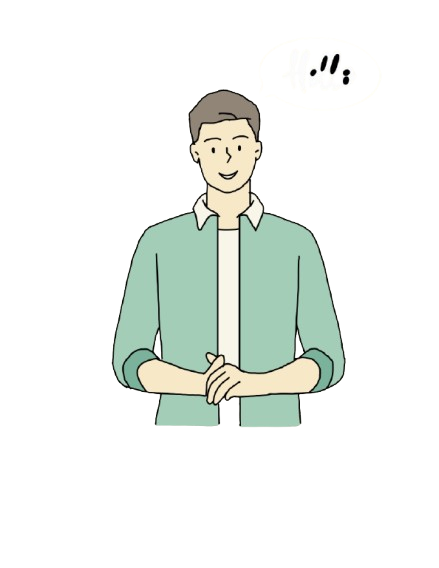
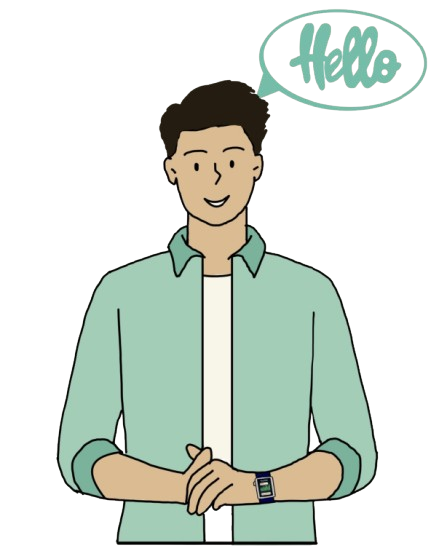
Updated the doodle

diff --git a/src/stylesheets/Tech.css b/src/stylesheets/Tech.css
@@ -2,7 +2,6 @@
 
 #techstack {
   background-color: #10221d;
-  padding-top: 50px;
   padding-bottom: 50px;
 }
 .tech-container {
@@ -100,6 +99,10 @@
 
 /* Responsive styles for very small screens (phones) */
 @media (max-width: 480px) {
+  #techstack {
+    background-color: #10221d;
+    padding-bottom: 0px;
+  }
 
   .tech-heading-overlay {
     font-size: 2rem; /* Reduce heading size for very small screens */

diff --git a/src/stylesheets/About.css b/src/stylesheets/About.css
@@ -6,7 +6,7 @@
   background-color: #10221d;
   height: 100vh;
   padding-top: 50px;
-  padding-bottom: 50px;
+  padding-bottom: 100px;
 }
 .about-heading-container {
   position: relative; /* For text overlay positioning */

diff --git a/src/About.jsx b/src/About.jsx
@@ -1,4 +1,4 @@
-import Doodle from "./assets/Doodle-2.png";
+import Doodle from "./assets/Doodle-green.png";
 import React, { useState } from "react";
 import "./stylesheets/About.css";
 
